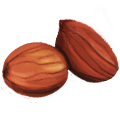
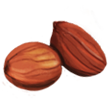
Add files via upload

Changed region(s): [[0.0, 0.1364, 1.0, 0.8455]]

diff --git a/css/index.css b/css/index.css
@@ -83,11 +83,11 @@
     .like_onebox:nth-of-type(4){background-color: yellow;}
     .like_onebox:nth-of-type(5){background-color:blue;}
 
-    .like_onebox:first-of-type img {width:90px; height:90px;}
-    .like_onebox:nth-of-type(2) img {width:120px; height:120px;}
-    .like_onebox:nth-of-type(3) img {width:90px; height:90px;}
-    .like_onebox:nth-of-type(4) img {width:120px; height:120px;}
-    .like_onebox:nth-of-type(5) img {width:90px; height:90px;}
+    .like_onebox:first-of-type img {width:90px; height:90px; margin:27px 0 0 27px;}
+    .like_onebox:nth-of-type(2) img {width:110px; height:110px; margin:20px 0 0 20px;}
+    .like_onebox:nth-of-type(3) img {width:90px; height:90px; margin:29px 0 0 33px;}
+    .like_onebox:nth-of-type(4) img {width:120px; height:120px; margin:14px 0 0 16px;}
+    .like_onebox:nth-of-type(5) img {width:90px; height:90px; margin:28px 0 0 31px;}
 
     .one_textbox {width:800px; height:60px; background-color:#fff; border-radius:40px; margin-top:-90px;}
     .one_textbox h4 {font-family: "MaruBuri-Regular"; color:#000; font-size:22px;
